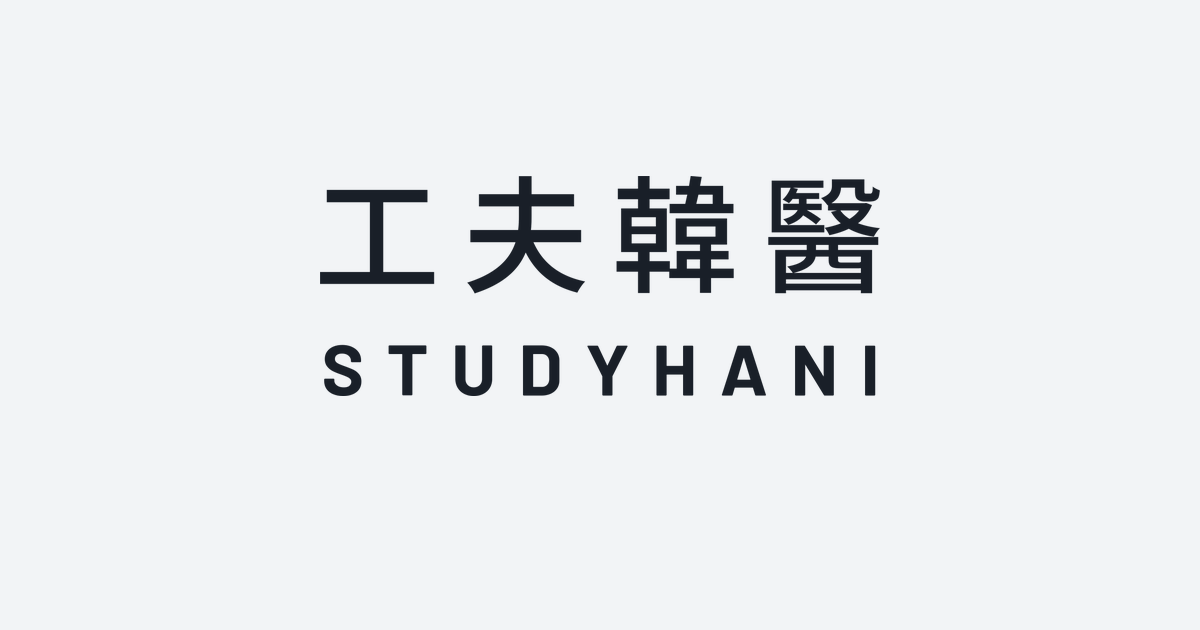
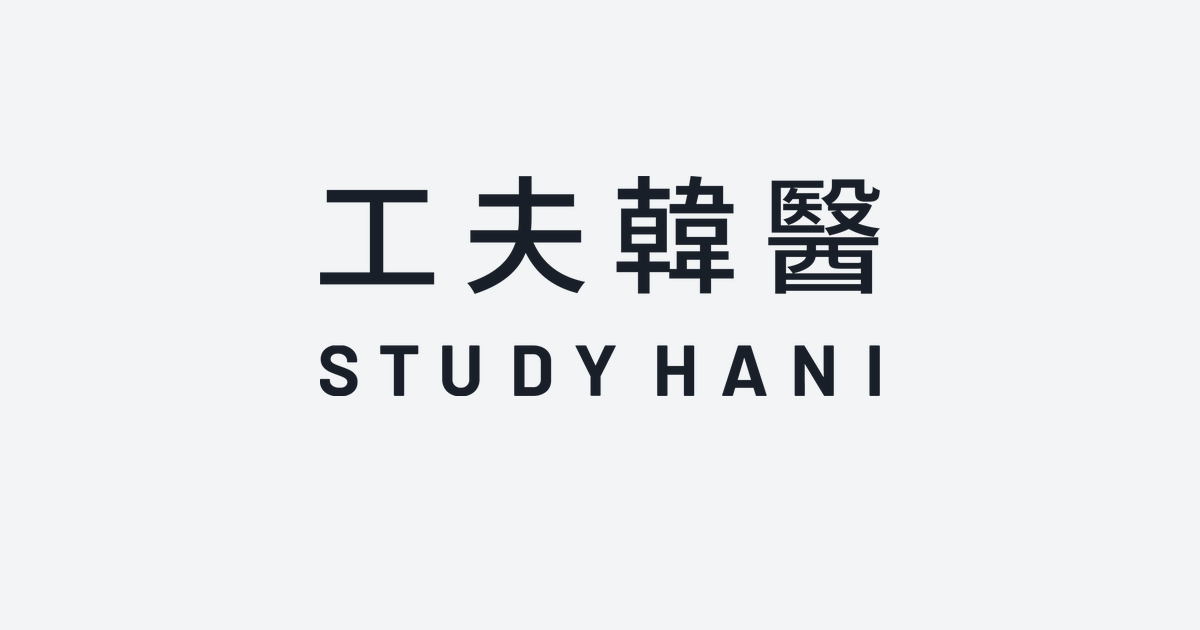
세로 로고 다듬기 : STUDY 와 HANI 사이를 살짝 띄우고 글자 사이를 눈으로 보이는 간격 기준으로 고르게 (T, Y, A 열린 모양 보정), 영어 양 끝을 한자 끝에 맞춤
Claude-Session: https://claude.ai/code/session_015uaKLahaYjwSoCrRpGm8MR

diff --git a/js/views/auth.js b/js/views/auth.js
@@ -46,7 +46,7 @@ export function loginView() {
   watchFilled(btn, [email, pw]);
 
   const card = h('form', { class: 'auth-card', novalidate: true, onsubmit: submit },
-    h('img', { class: 'brand', src: 'icons/logo.png', alt: '工夫韓醫 STUDYHANI' }),
+    h('img', { class: 'brand', src: 'icons/logo.png', alt: '工夫韓醫 STUDY HANI' }),
     email,
     pw,
     err,
@@ -104,7 +104,7 @@ function signupCard(back) {
 
   const backBtn = h('button', { class: 'su-back', type: 'button', 'aria-label': '로그인으로', onclick: back }, icon('back'));
   const card = h('form', { class: 'auth-card su-card', novalidate: true, onsubmit: submit },
-    h('img', { class: 'brand sm', src: 'icons/logo.png', alt: '工夫韓醫 STUDYHANI' }),
+    h('img', { class: 'brand sm', src: 'icons/logo.png', alt: '工夫韓醫 STUDY HANI' }),
     h('h1', { class: 'auth-title' }, '새 계정 만들기'),
     name, sno, grade, id, pw1, pw2, hp, err, btn);
 
@@ -128,7 +128,7 @@ function signupCard(back) {
     if (error) { try { msg = (await error.context.json()).error; } catch { msg = '요청을 보내지 못했습니다. 잠시 후 다시 시도하세요.'; } }
     if (msg) { busy(btn, false); return fail(msg); }
     await doneCheck(() => card.replaceChildren(
-      h('img', { class: 'brand sm', src: 'icons/logo.png', alt: '工夫韓醫 STUDYHANI' }),
+      h('img', { class: 'brand sm', src: 'icons/logo.png', alt: '工夫韓醫 STUDY HANI' }),
       h('h1', { class: 'auth-title' }, '요청을 보냈습니다'),
       h('p', { class: 'su-done' }, `승인되면 ${id.value.trim()} 아이디로 로그인할 수 있습니다.`),
       h('button', { class: 'auth-link strong', type: 'button', onclick: back }, '로그인으로 돌아가기')));
@@ -190,7 +190,7 @@ export function firstView() {
   showGrade();
 
   const card = h('form', { class: 'auth-card', novalidate: true, onsubmit: submit },
-    h('img', { class: 'brand sm', src: 'icons/logo.png', alt: '工夫韓醫 STUDYHANI' }),
+    h('img', { class: 'brand sm', src: 'icons/logo.png', alt: '工夫韓醫 STUDY HANI' }),
     h('h1', { class: 'auth-title' }, '비밀번호 변경'),
     pw1,
     pw2,

diff --git a/index.html b/index.html
@@ -10,7 +10,7 @@
 <meta property="og:title" content="공부하니 By. KIKY">
 <meta property="og:description" content="원광한의대 학습 자료 아카이브">
 <meta property="og:url" content="https://kiky-wku.github.io/KMED-Archive/">
-<meta property="og:image" content="https://kiky-wku.github.io/KMED-Archive/icons/og.png?v=3">
+<meta property="og:image" content="https://kiky-wku.github.io/KMED-Archive/icons/og.png?v=4">
 <meta property="og:image:width" content="1200">
 <meta property="og:image:height" content="630">
 <meta name="twitter:card" content="summary_large_image">
